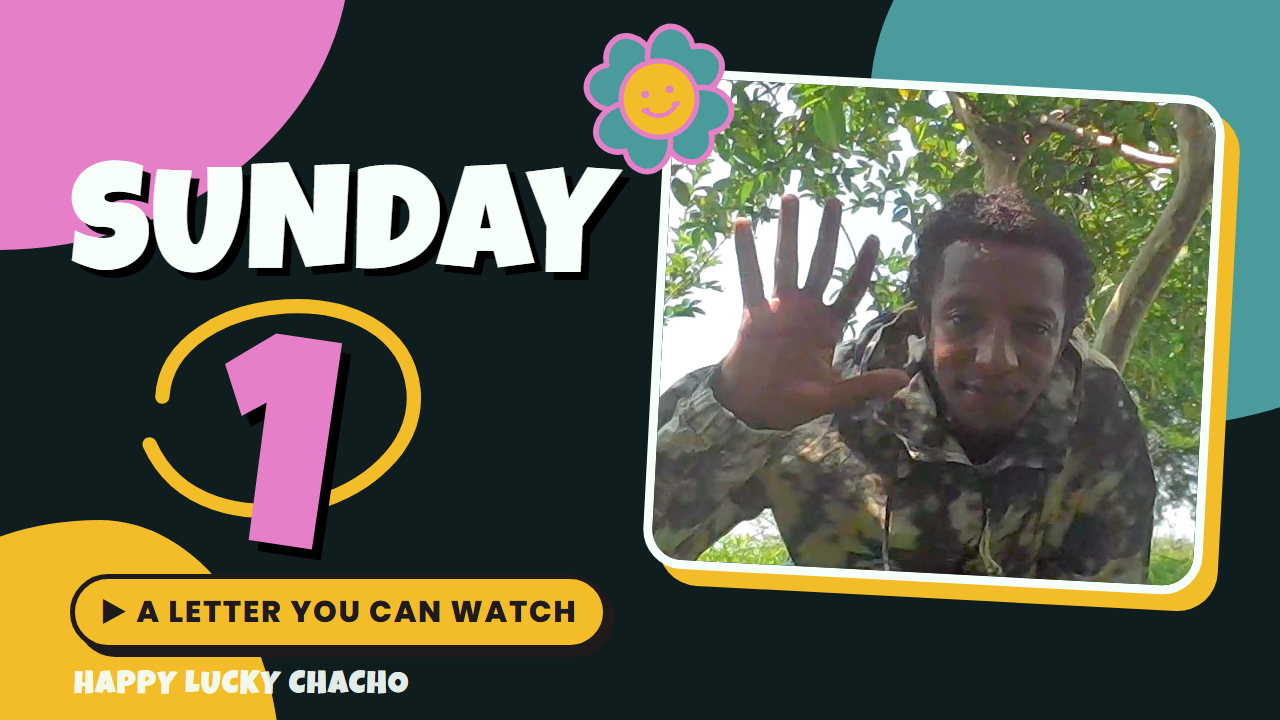
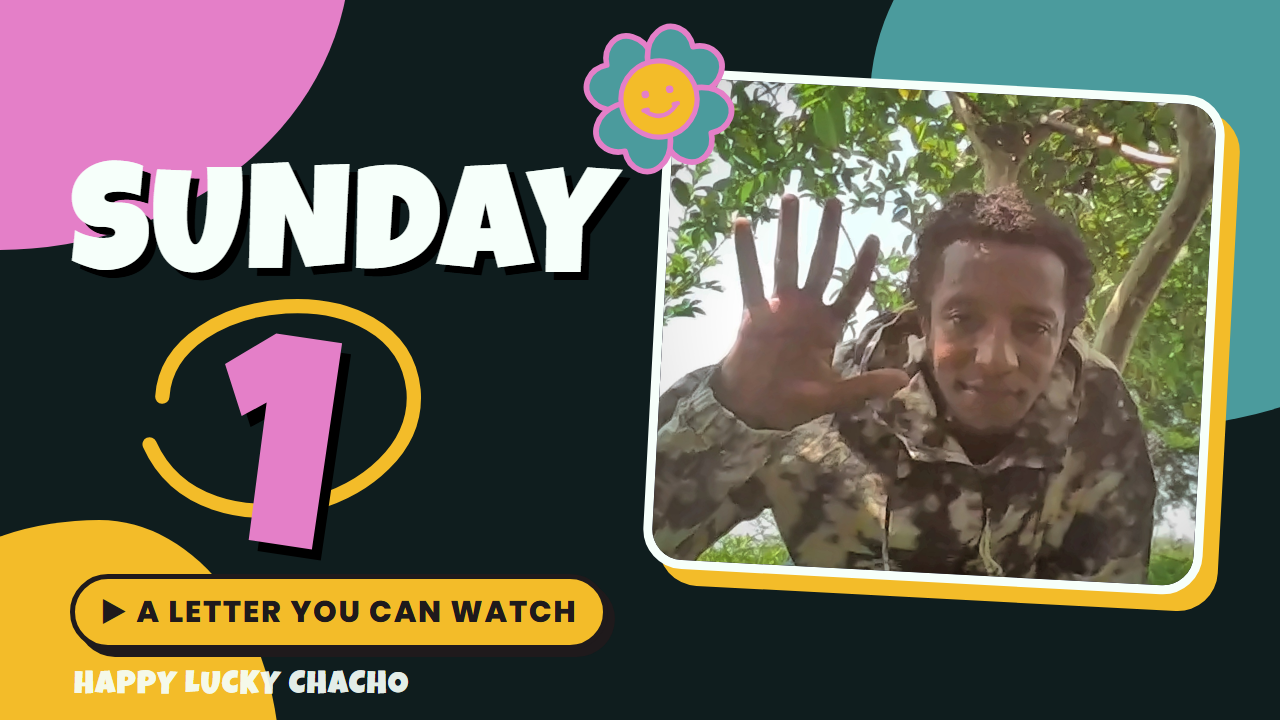
design: light-ground Sunday 1 thumbnail and a better-enhanced still

diff --git a/design/thumbnails/sunday-1.html b/design/thumbnails/sunday-1.html
@@ -64,12 +64,27 @@
   .c .one svg{position:absolute;inset:-24px -70px;width:calc(100% + 140px);height:calc(100% + 48px);color:var(--gold);overflow:visible}
   .c .pill{left:70px;top:574px;background:var(--gold);color:var(--ink);font-size:30px;padding:10px 26px}
   .c .brand{left:74px;top:662px;color:var(--mint);opacity:.92;font-size:32px}
+
+  /* ---------- D: the still on a light ground ---------- */
+  body.d{background:var(--mint);color:var(--ink)}
+  .d .b1{width:560px;height:500px;left:-210px;top:-250px;background:var(--rose)}
+  .d .b2{width:430px;height:400px;left:-150px;bottom:-200px;background:var(--gold);border-radius:58% 42% 40% 60%/50% 62% 38% 50%}
+  .d .b3{width:640px;height:600px;right:-230px;top:-170px;background:var(--teal);border-radius:52% 48% 60% 40%/45% 55% 45% 55%}
+  .d .photo{position:absolute;right:66px;top:82px;width:560px;height:500px;border:8px solid var(--ink);border-radius:40px;box-shadow:16px 16px 0 var(--ink);transform:rotate(3deg);overflow:hidden;background:#223}
+  .d .photo img{width:100%;height:100%;object-fit:cover;object-position:42% 30%;display:block}
+  .d .logo{width:170px;height:170px;left:574px;top:14px;transform:rotate(-12deg);z-index:3}
+  .d h1{position:absolute;left:70px;top:150px;font-size:150px;color:var(--ink);text-shadow:7px 7px 0 var(--gold)}
+  .d .one{position:absolute;left:150px;top:268px;width:260px;height:270px;display:grid;place-items:center}
+  .d .one b{font-family:"Luckiest Guy",cursive;font-weight:400;font-size:300px;line-height:1;color:var(--rose);text-shadow:10px 10px 0 var(--ink);transform:translateY(20px) rotate(6deg);display:block}
+  .d .one svg{position:absolute;inset:-24px -70px;width:calc(100% + 140px);height:calc(100% + 48px);color:var(--teal);overflow:visible}
+  .d .pill{left:70px;top:574px;background:var(--gold);color:var(--ink);font-size:30px;padding:10px 26px}
+  .d .brand{left:74px;top:662px;color:var(--ink);font-size:32px}
 </style>
 </head>
 <body>
 <script>
   const q = new URLSearchParams(location.search).get("v");
-  const v = q === "b" || q === "c" ? q : "a";
+  const v = ["b", "c", "d"].includes(q) ? q : "a";
   document.body.className = v;
 </script>
 
@@ -121,7 +136,7 @@
 </template>
 
 <script>
-  document.body.appendChild(document.getElementById("t" + v).content.cloneNode(true));
+  document.body.appendChild(document.getElementById("t" + (v === "d" ? "c" : v)).content.cloneNode(true));
 </script>
 </body>
 </html>
